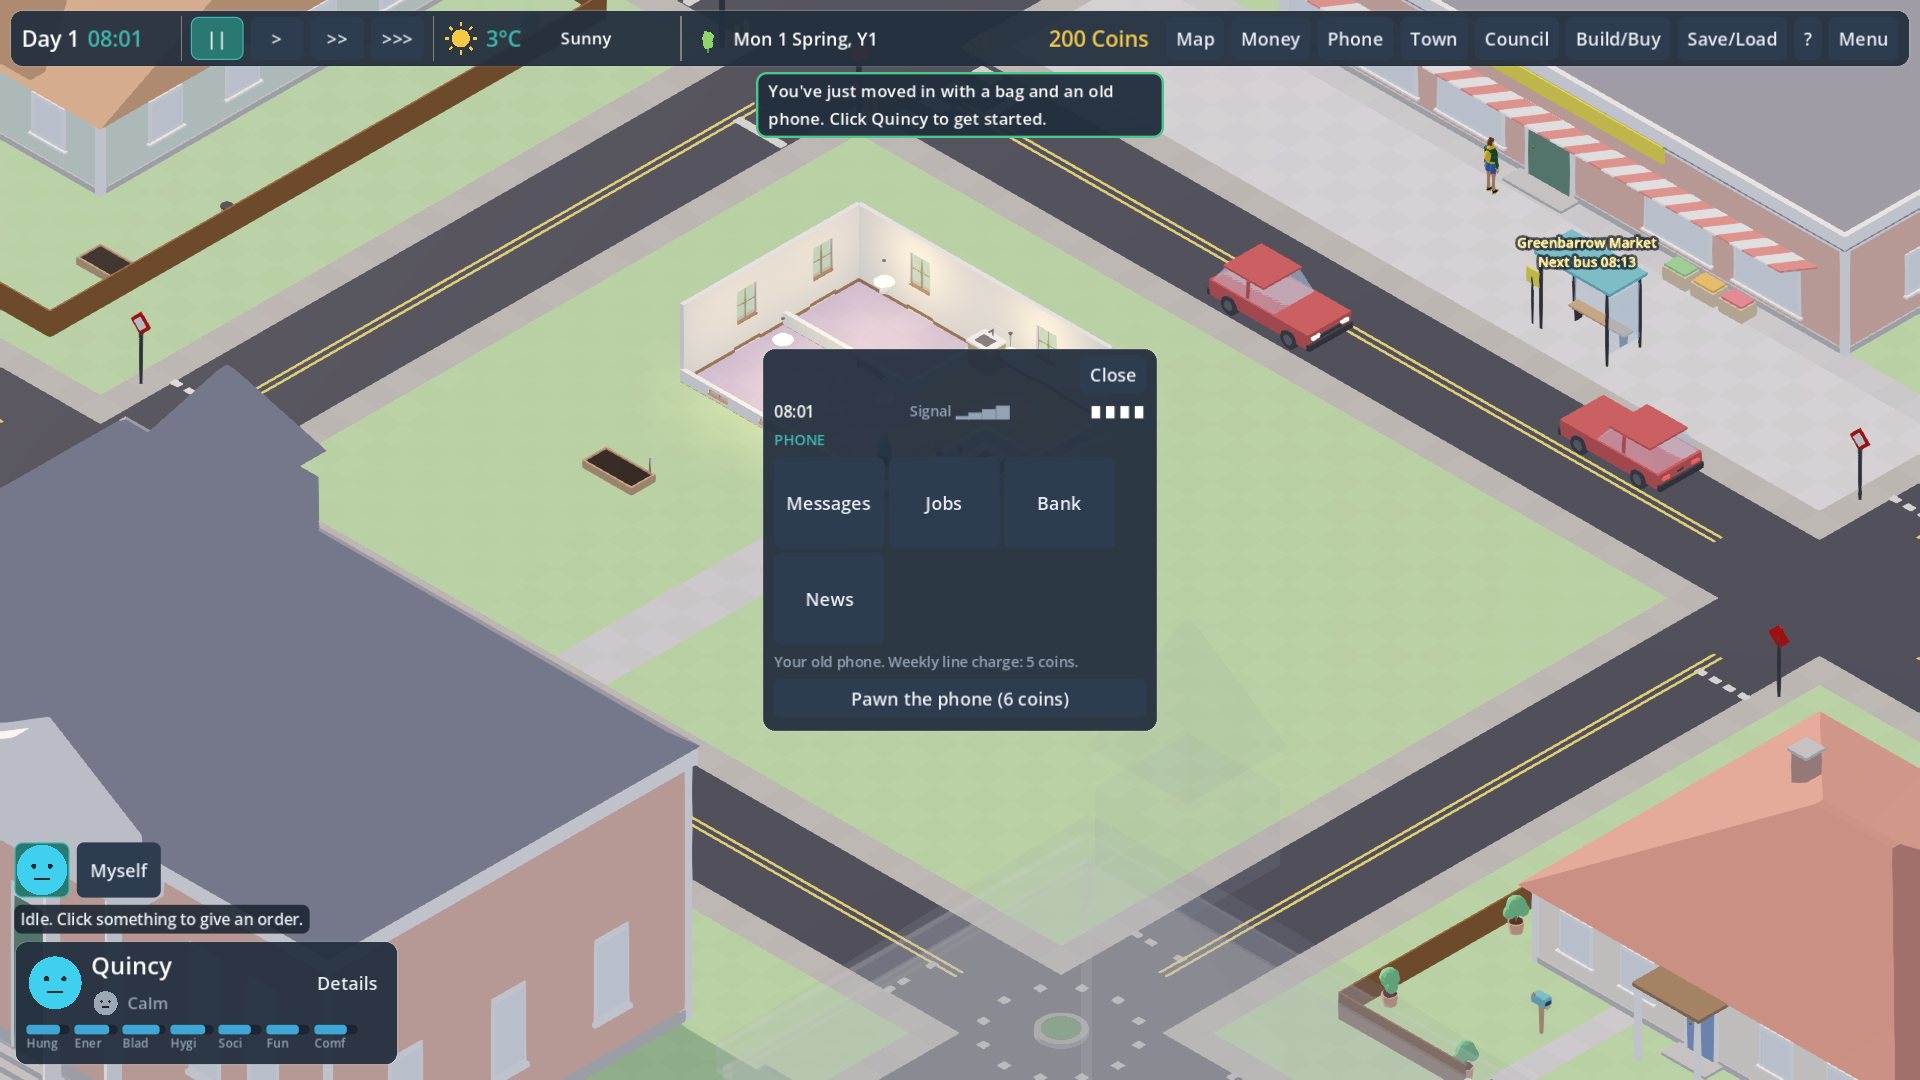
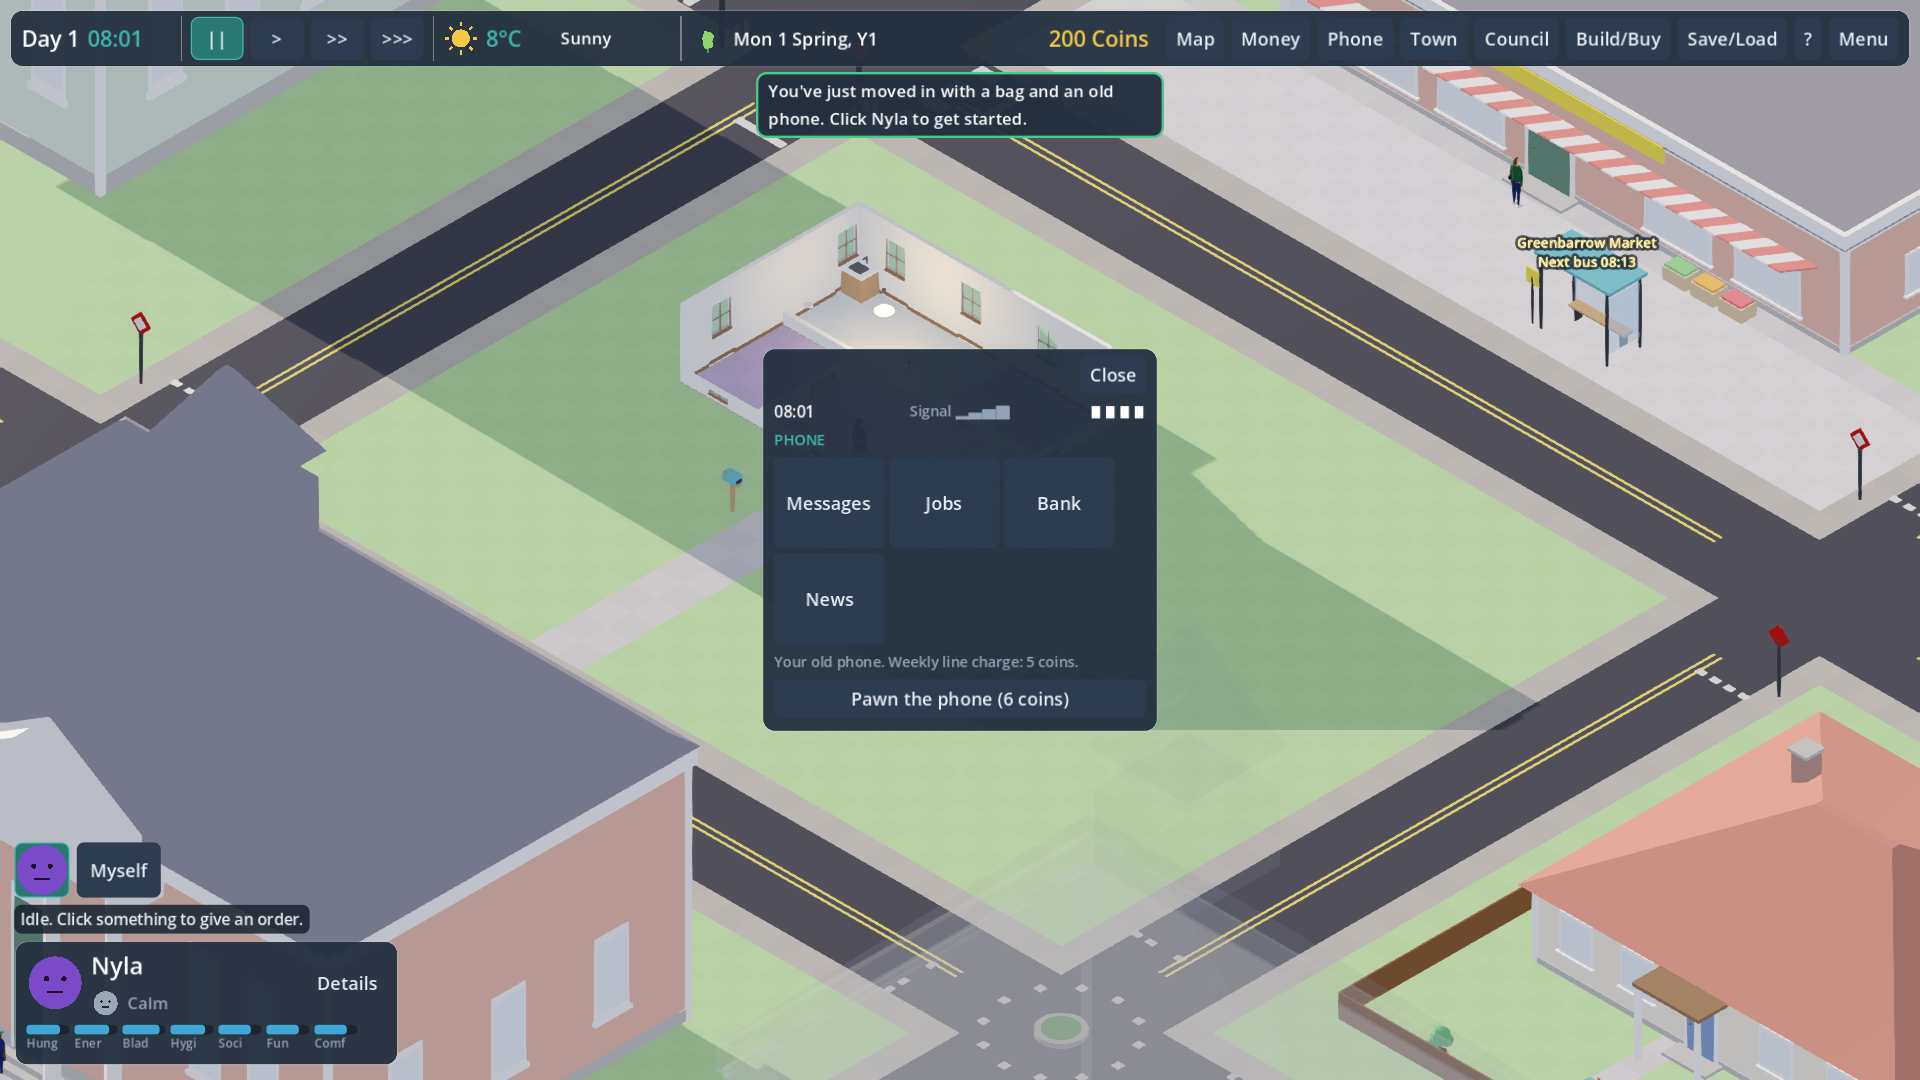
Task 46: custody held in a real police cell (PlaceHold)

diff --git a/coord/messages/2026-10-21T1800-builder-46-cells.md b/coord/messages/2026-10-21T1800-builder-46-cells.md
@@ -1,0 +1,8 @@
+from: builder
+to: reviewer
+type: status
+re: task 46 police cells
+status: open
+
+Custody and remand holds are now physical (PlaceHold, data/justice.json "places": reason -> lot): the person is put at the police lot, walks down to a free cell bunk on level -1 and sits there for the whole hold (a visible Away record, so JusticePlayer.release, care meals and status chips work as before). Orders for a held person are refused ("You are being held"); at the end of the hold or on release they walk out to the door. No map / no lot for the reason (classic stub tests, jail and prison for now) = the old hidden Away hold. Shot: coord/shots/ui50/cell.png (pawn in the cells, Cells floor selected). Also: windowed runs now go through tools/quiet_godot.ps1 (second monitor, no focus steal, owner rule).
+NOT yet: front desk (report a crime, press charges, give a statement), interview-room scene, detectives' desk for work_case_file, police cars arrests (49), the jail/prison lot (jail and prison holds still hidden), arrested NPC townies in the cells (only residents are placed so far).
